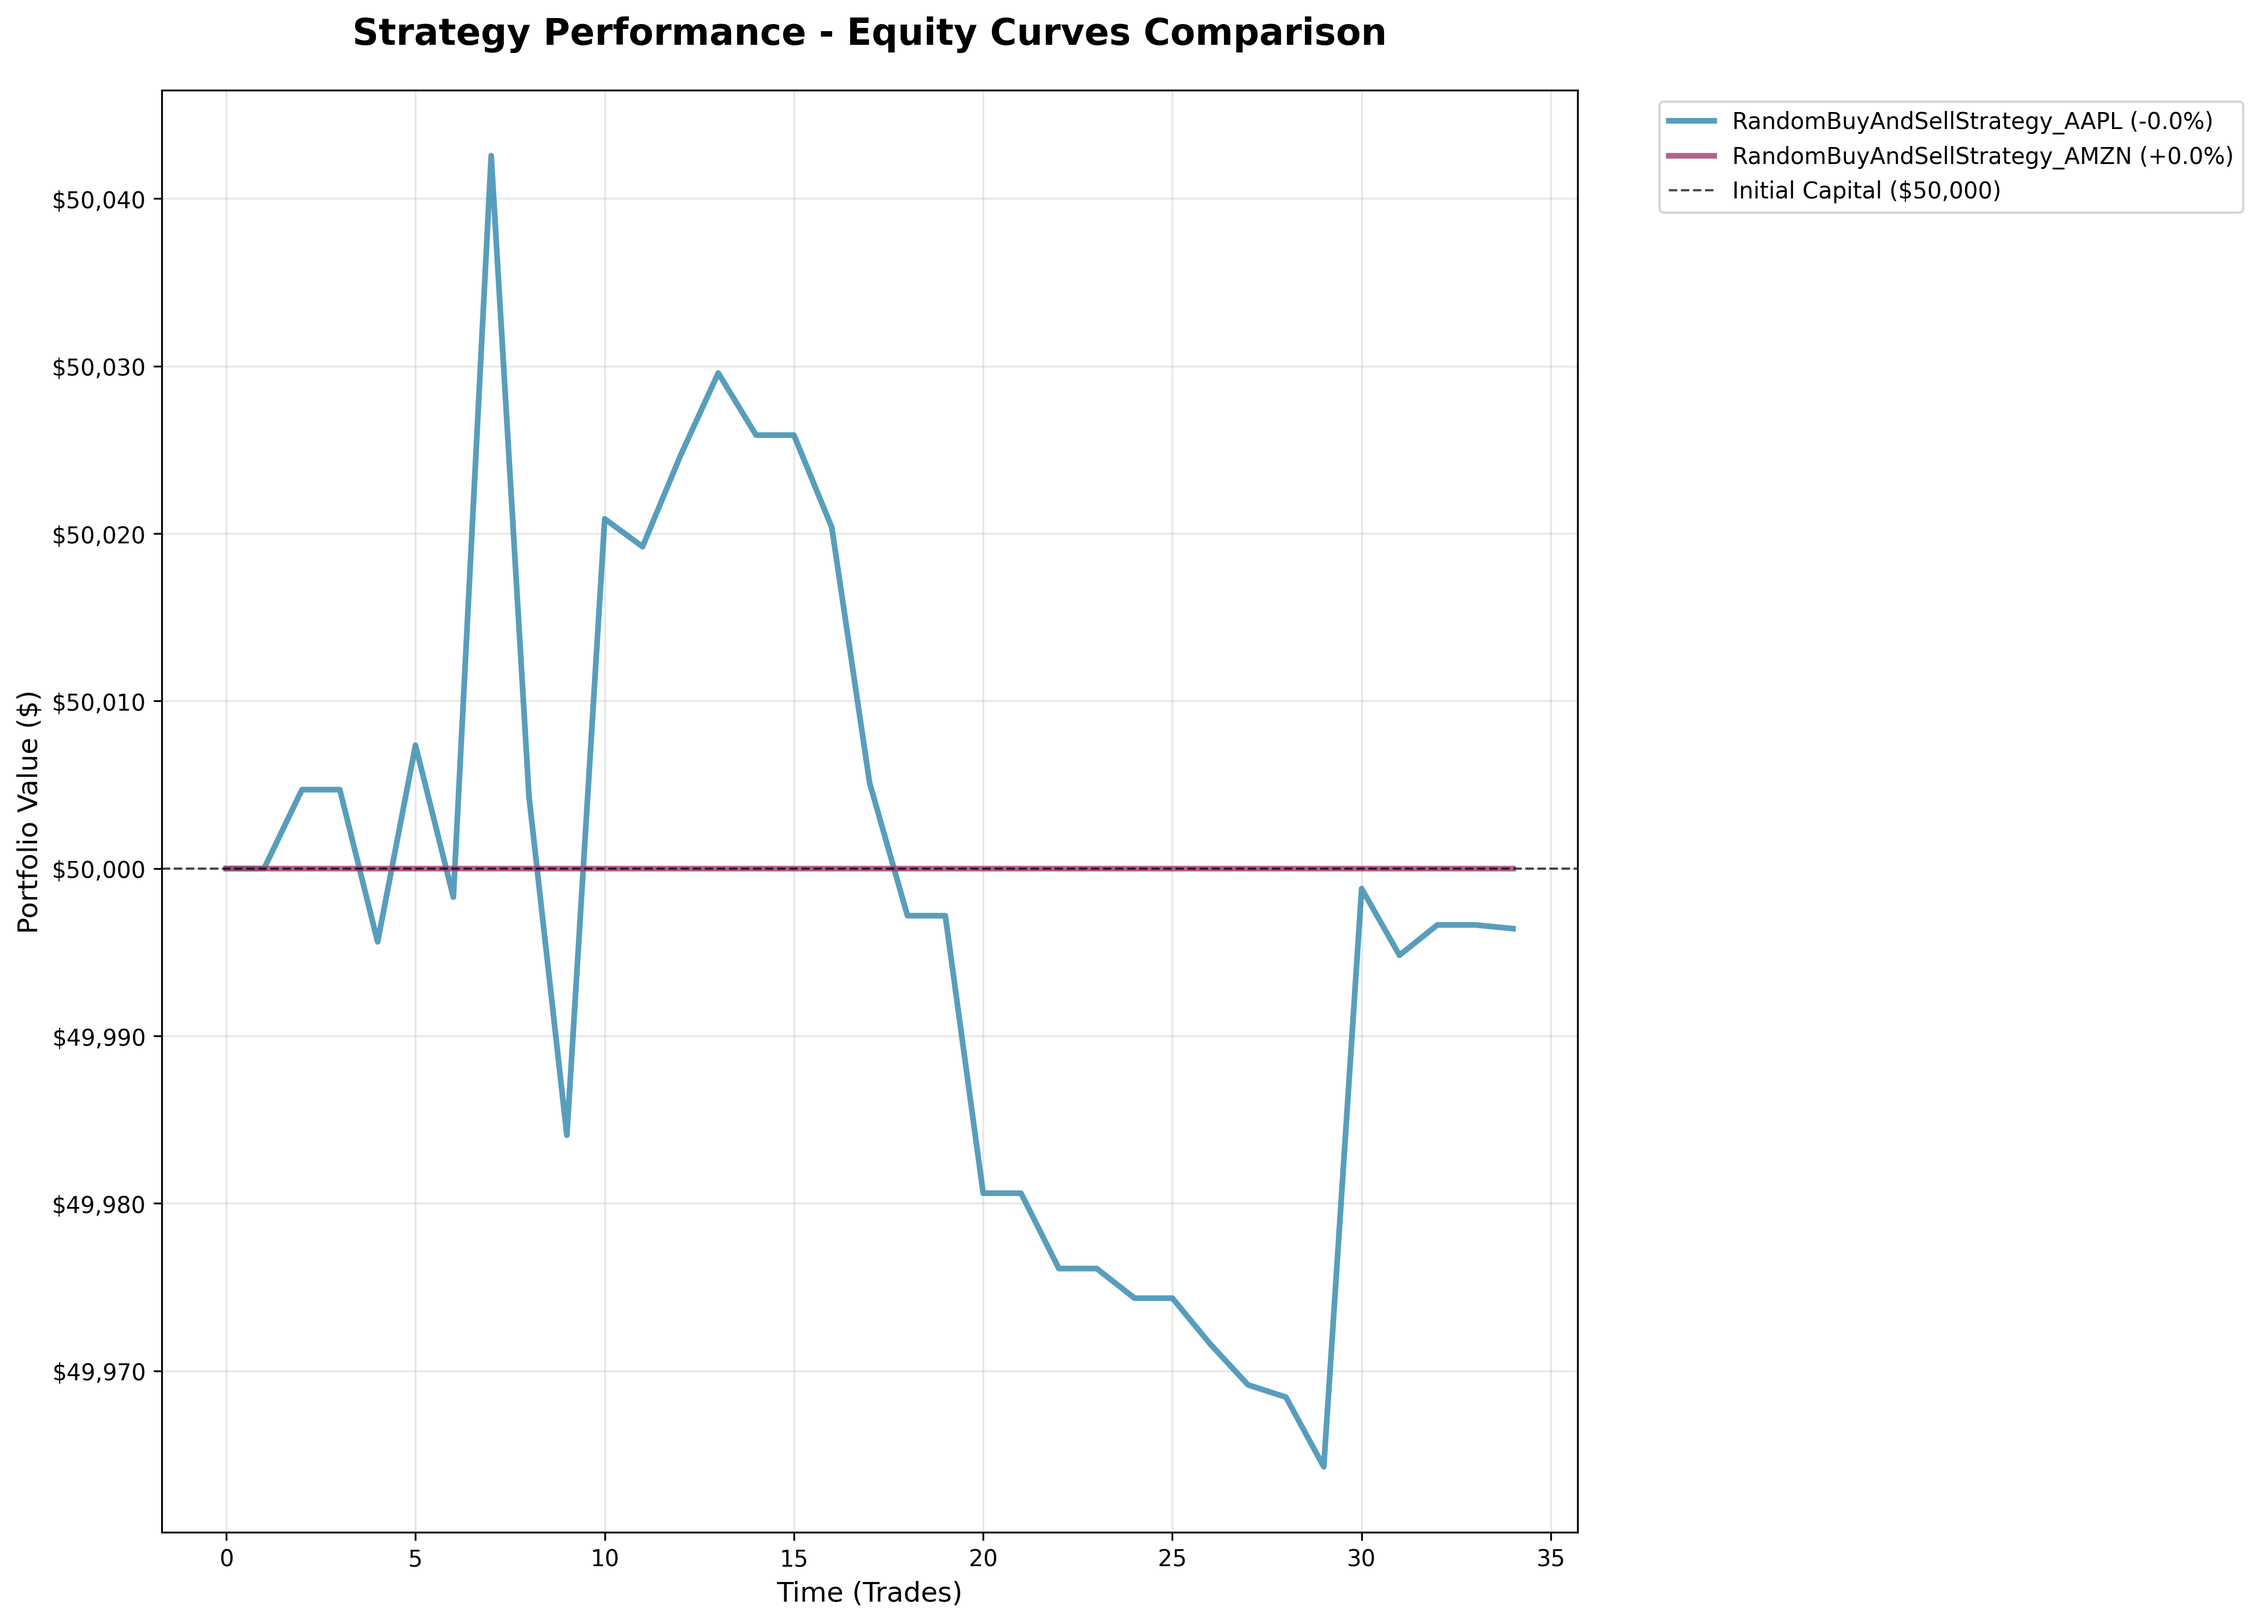
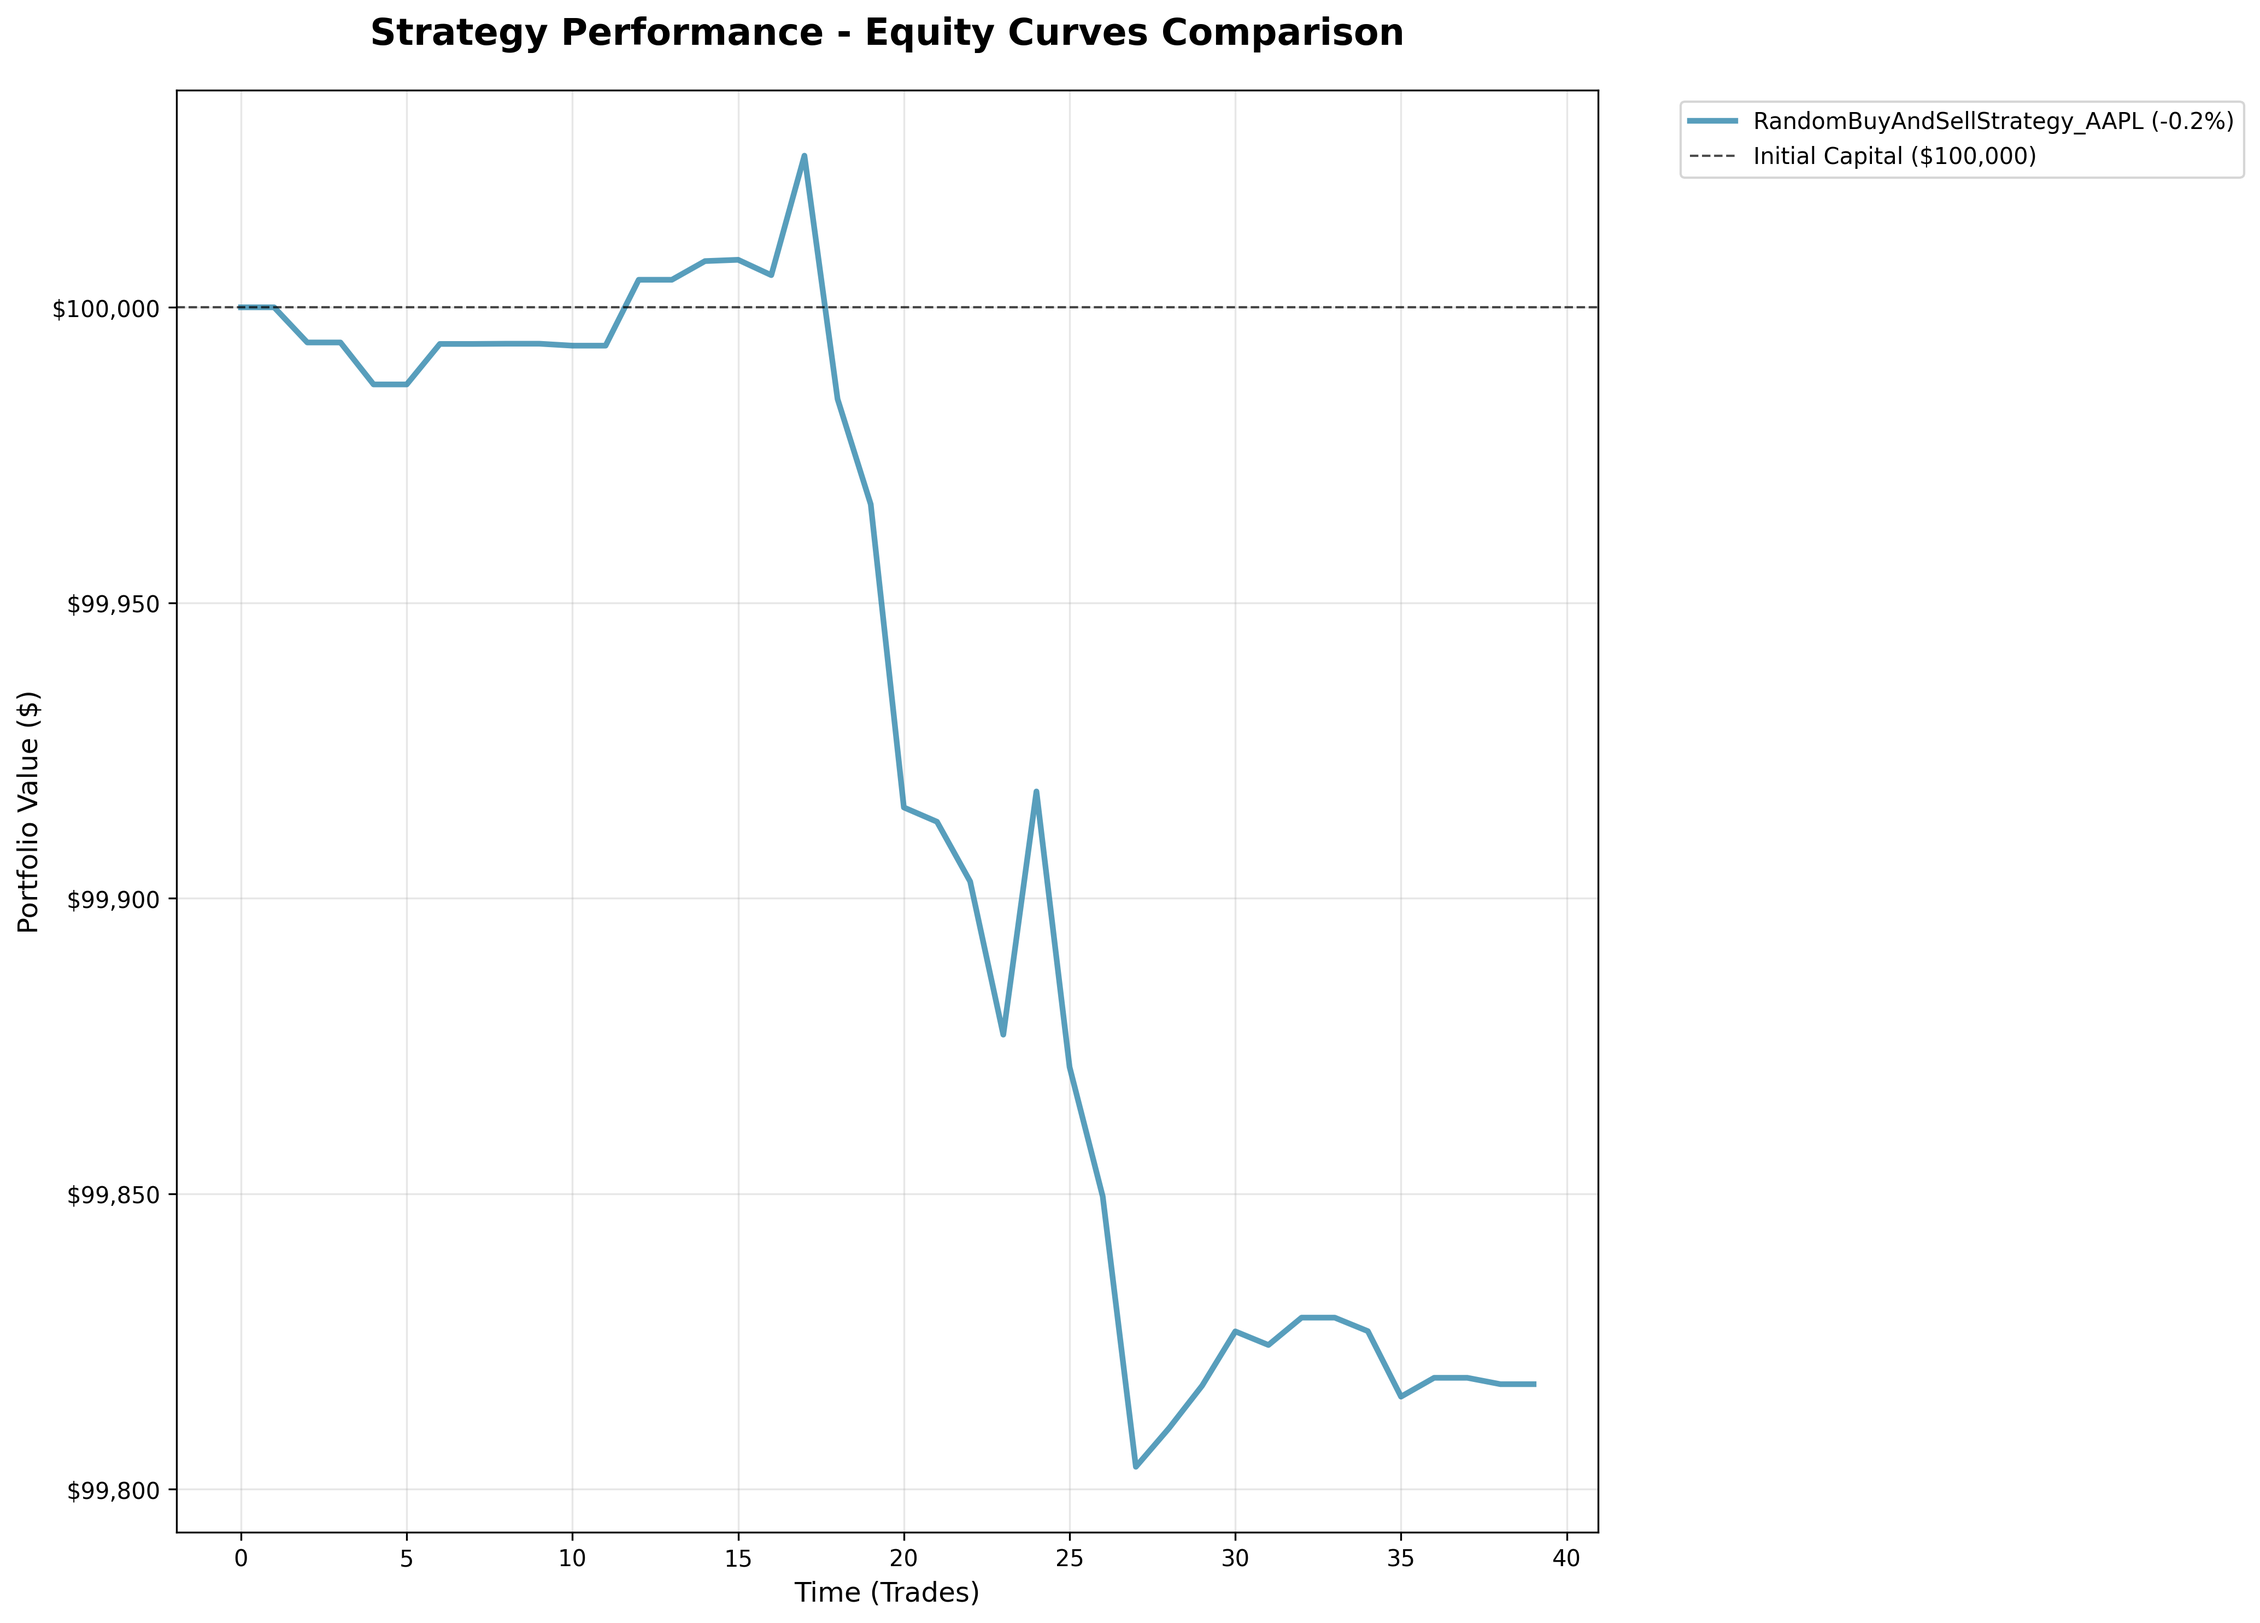
pre final changes

diff --git a/main.py b/main.py
@@ -30,18 +30,19 @@ def run_strategy_list():
     amaz_strat_2 = RandomBuyAndSellStrategy(symbol="AMZN", capital = 20000.0)
     sma_amaz_strat = SMACrossoverStrategy(symbol="AMZN", short_window=10, long_window=30, capital = 30000.0)
 
-    strat_list = [test_strat_1, amaz_strat_2, sma_amaz_strat]
+    # strat_list = [test_strat_1, amaz_strat_2, sma_amaz_strat]
+    strat_list = [test_strat_1]
 
 
     engine = ExecutionEngine(failure_rate=0.0, initial_capital=100000.0)
     engine.load_data("market_data.csv")
 
-    engine.run([test_strat_1, amaz_strat_2])
+    engine.run(strat_list)
     
     # Generate performance reports and plots
     from reporting import print_backtest_results, generate_strategy_performance_plots
-    print_backtest_results(engine, [test_strat_1, amaz_strat_2])
-    generate_strategy_performance_plots(engine, [test_strat_1, amaz_strat_2])
+    print_backtest_results(engine, strat_list)
+    generate_strategy_performance_plots(engine, strat_list)
 
 
 
@@ -56,4 +57,46 @@ if __name__ == "__main__":
         # Run the complete trading system demonstration
         run_strategy_list()
         
-       
+def run_error_demo():
+    """Demonstrate error handling and failure simulation with 20% failure rate."""
+    print("=" * 60)
+    print("ERROR HANDLING AND FAILURE SIMULATION DEMO")
+    print("=" * 60)
+    
+    # Create strategies
+    test_strat = RandomBuyAndSellStrategy(symbol="AAPL", capital=10000.0, probability=0.3)
+    sma_strat = SMACrossoverStrategy(symbol="AMZN", short_window=5, long_window=15, capital=15000.0)
+    
+    print("Testing with 20% failure rate...")
+    
+    engine = ExecutionEngine(failure_rate=0.2, initial_capital=100000.0)
+    engine.load_data("market_data.csv")
+    
+    # Run backtest
+    engine.run([test_strat, sma_strat])
+    
+    # Analyze results
+    total_signals = len(engine.signals)
+    total_orders = len(engine.orders)
+    failed_orders = len([order for order in engine.orders if order.status == "FAILED"])
+    filled_orders = len([order for order in engine.orders if order.status == "FILLED"])
+    
+    print(f"Total signals generated: {total_signals}")
+    print(f"Total orders created: {total_orders}")
+    print(f"Successfully filled: {filled_orders}")
+    print(f"Failed orders: {failed_orders}")
+    print(f"Success rate: {(filled_orders/total_orders*100):.1f}%" if total_orders > 0 else "N/A")
+    
+    print("\n" + "=" * 60)
+    print("ERROR DEMO COMPLETED")
+    print("=" * 60)
+
+if __name__ == "__main__":
+    import sys
+    
+    if len(sys.argv) > 1 and sys.argv[1] == "--error-demo":
+        # Run the error handling and failure simulation demo
+        run_error_demo()
+    else:
+        # Run the complete trading system demonstration
+        run_strategy_list()

diff --git a/performance.md b/performance.md
@@ -1,6 +1,6 @@
 # Trading Strategy Performance Report
 
-**Generated:** 2025-09-22 02:00:12  
+**Generated:** 2025-09-22 02:08:03  
 **Backtest Period:** 2025-09-15T16:00:55.757130 to 2025-09-21T23:53:16.260874  
 **Total Market Ticks:** 1,500
 
@@ -8,13 +8,13 @@
 
 ## Executive Summary
 
-This report analyzes the performance of 2 algorithmic trading strategies over the backtest period.
+This report analyzes the performance of 1 algorithmic trading strategies over the backtest period.
 
 **Key Performance Highlights:**
-- **Total Portfolio Return:** -0.78%
-- **Absolute Profit/Loss:** $-784.29
-- **Risk-Adjusted Return (Sharpe):** -3.016
-- **Maximum Drawdown:** 2.86%
+- **Total Portfolio Return:** -0.99%
+- **Absolute Profit/Loss:** $-990.91
+- **Risk-Adjusted Return (Sharpe):** -2.677
+- **Maximum Drawdown:** 3.28%
 - **Win Rate:** 48.1%
 
 ---
@@ -24,9 +24,9 @@ This report analyzes the performance of 2 algorithmic trading strategies over th
 | Metric | Value |
 |--------|--------|
 | **Initial Capital** | $100,000.00 |
-| **Final Portfolio Value** | $99,215.71 |
-| **Total Return** | -0.78% |
-| **Absolute P&L** | $-784.29 |
+| **Final Portfolio Value** | $99,009.09 |
+| **Total Return** | -0.99% |
+| **Absolute P&L** | $-990.91 |
 | **Average Daily Return** | -0.001% |
 
 ---
@@ -35,11 +35,11 @@ This report analyzes the performance of 2 algorithmic trading strategies over th
 
 | Metric | Value | Interpretation |
 |--------|--------|----------------|
-| **Sharpe Ratio** | -3.016 | Poor risk-adjusted performance |
-| **Maximum Drawdown** | 2.86% | Low maximum loss from peak |
-| **Volatility (Daily)** | 0.05% | Daily portfolio volatility |
-| **Best Period Return** | +0.28% | Single best trading period |
-| **Worst Period Return** | -0.27% | Single worst trading period |
+| **Sharpe Ratio** | -2.677 | Poor risk-adjusted performance |
+| **Maximum Drawdown** | 3.28% | Low maximum loss from peak |
+| **Volatility (Daily)** | 0.06% | Daily portfolio volatility |
+| **Best Period Return** | +0.32% | Single best trading period |
+| **Worst Period Return** | -0.31% | Single worst trading period |
 
 ---
 
@@ -47,8 +47,7 @@ This report analyzes the performance of 2 algorithmic trading strategies over th
 
 | Strategy | Initial Capital | Final Value | Return | P&L |
 |----------|----------------|-------------|--------|-----|
-| **RandomBuyAndSellStrategy_AAPL** | $50,000.00 | $49,996.41 | -0.01% | $-3.59 |
-| **RandomBuyAndSellStrategy_AMZN** | $50,000.00 | $50,000.00 | +0.00% | $+0.00 |
+| **RandomBuyAndSellStrategy_AAPL** | $100,000.00 | $99,814.28 | -0.19% | $-185.72 |
 
 ---
 
@@ -56,9 +55,9 @@ This report analyzes the performance of 2 algorithmic trading strategies over th
 
 | Metric | Value |
 |--------|--------|
-| **Total Signals Generated** | 34 |
-| **Total Orders Placed** | 34 |
-| **Successful Orders** | 34 |
+| **Total Signals Generated** | 39 |
+| **Total Orders Placed** | 39 |
+| **Successful Orders** | 39 |
 | **Failed Orders** | 0 |
 | **Order Success Rate** | 100.0% |
 | **Total Trading Periods** | 1499 |
@@ -104,19 +103,19 @@ This report analyzes the performance of 2 algorithmic trading strategies over th
 ## Performance Interpretation
 
 ### Overall Assessment
-The portfolio experienced a **negative return of -0.78%**, indicating losses during the backtest period. The Sharpe ratio of -3.016 suggests **poor risk-adjusted performance**. 
+The portfolio experienced a **negative return of -0.99%**, indicating losses during the backtest period. The Sharpe ratio of -2.677 suggests **poor risk-adjusted performance**. 
 
 ### Risk Profile
-The strategy experienced a maximum drawdown of **2.86%**, representing the largest peak-to-trough decline. This is considered a **low-risk** drawdown level.
+The strategy experienced a maximum drawdown of **3.28%**, representing the largest peak-to-trough decline. This is considered a **low-risk** drawdown level.
 
 ### Trading Effectiveness
 - **Win Rate:** 48.1% of trading periods were profitable
 - **Execution Quality:** 100.0% order success rate
-- **Strategy Diversity:** 2 different strategies deployed
+- **Strategy Diversity:** 1 different strategies deployed
 
 ### Strategy Analysis
-- **Top Performer:** RandomBuyAndSellStrategy_AMZN with +0.00% return
-- **Underperformer:** RandomBuyAndSellStrategy_AAPL with -0.01% return
+- **Top Performer:** RandomBuyAndSellStrategy_AAPL with -0.19% return
+- **Underperformer:** RandomBuyAndSellStrategy_AAPL with -0.19% return
 - **Portfolio Effect:** Diversification across strategies did not prevent overall losses
 
 ---
@@ -138,6 +137,7 @@ The strategy experienced a maximum drawdown of **2.86%**, representing the large
 
 | Symbol | Quantity | Avg Price | Current Value |
 |--------|----------|-----------|---------------|
+| AAPL | 1 | $99.27 | $99.27 |
 
 
 ---
@@ -146,7 +146,7 @@ The strategy experienced a maximum drawdown of **2.86%**, representing the large
 
 **Data Sources:**
 - Market Data: CSV file with 1,500 price ticks
-- Strategies Tested: RandomBuyAndSellStrategy(AAPL), RandomBuyAndSellStrategy(AMZN)
+- Strategies Tested: RandomBuyAndSellStrategy(AAPL)
 
 **Risk Disclaimers:**
 - Past performance does not guarantee future results
@@ -156,4 +156,4 @@ The strategy experienced a maximum drawdown of **2.86%**, representing the large
 ---
 
 *Report generated by CSV-Based Algorithmic Trading Backtester*  
-*Generation Time: 2025-09-22 02:00:12*
+*Generation Time: 2025-09-22 02:08:03*
